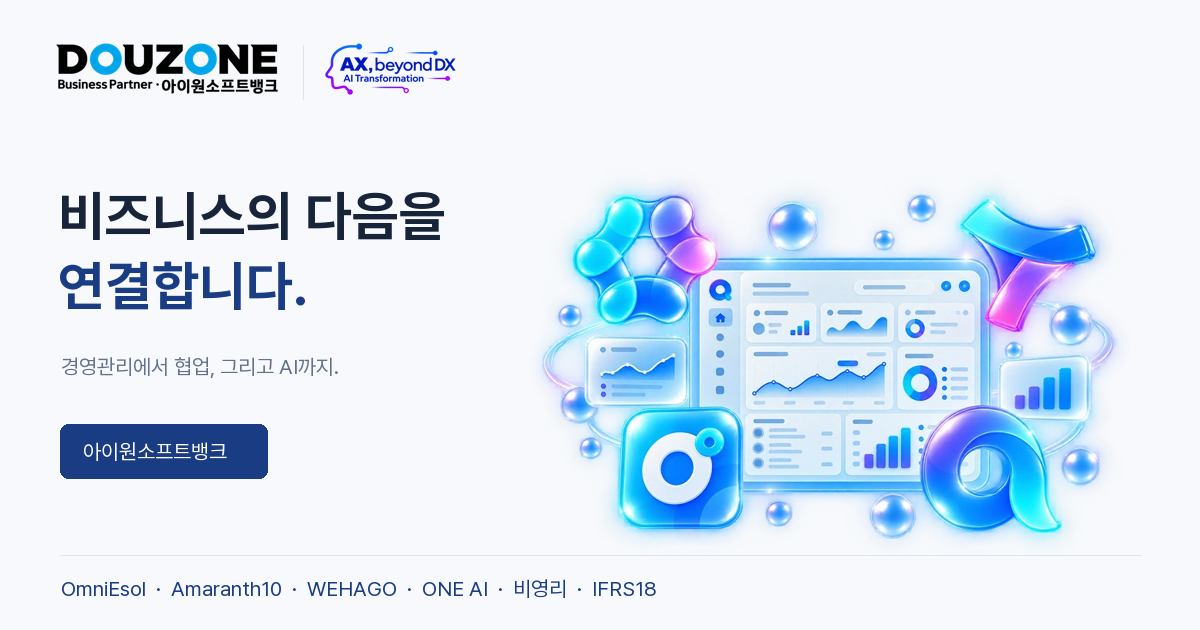
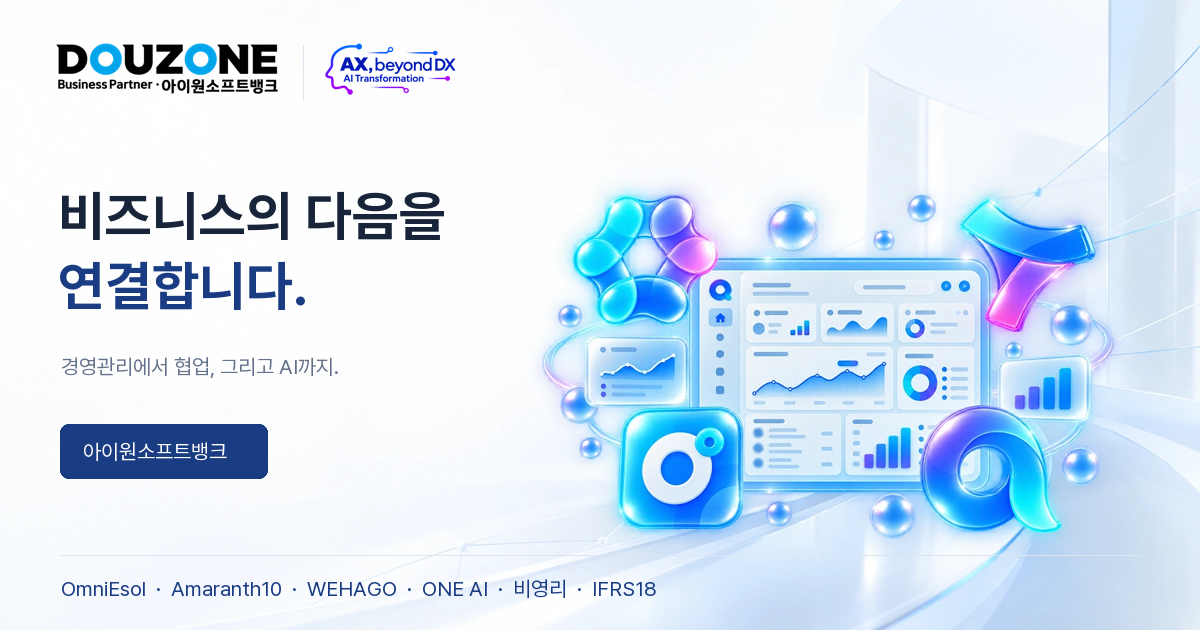
Add subtle technology backgrounds to product landing

Changed region(s): [[0.4625, 0.0, 1.0, 1.0]]

diff --git a/products/index.html b/products/index.html
@@ -1,5 +1,5 @@
 <!doctype html>
-<html lang="ko"><head><meta charset="utf-8"><meta name="viewport" content="width=device-width,initial-scale=1"><title>아이원소프트뱅크 | 비즈니스의 다음을 연결하다</title><meta name="description" content="아이원소프트뱅크의 더존 비즈니스 솔루션. OmniEsol, Amaranth10, WEHAGO, ONE AI, 비영리·IFRS18까지 실제 제품 화면과 함께 살펴보세요."><meta name="theme-color" content="#1A3C83"><link rel="canonical" href="https://crm-sand-five.vercel.app/products/"><link rel="icon" href="assets/favicon.svg" type="image/svg+xml"><link rel="icon" href="assets/favicon-32.png" sizes="32x32" type="image/png"><link rel="apple-touch-icon" href="assets/apple-touch-icon.png"><link rel="preload" href="../assets/fonts/PretendardVariable.woff2" as="font" type="font/woff2" crossorigin><link rel="preload" href="assets/hero-visual.webp" as="image"><link rel="stylesheet" href="landing.css?v=1.0"><meta property="og:locale" content="ko_KR"><meta property="og:site_name" content="아이원소프트뱅크"><meta property="og:type" content="website"><meta property="og:title" content="아이원소프트뱅크 | 비즈니스의 다음을 연결하다"><meta property="og:description" content="경영관리에서 AI까지. 우리 회사에 맞는 6가지 더존 솔루션을 만나보세요."><meta property="og:image" content="https://crm-sand-five.vercel.app/products/assets/og-landing.png"><meta property="og:image:width" content="1200"><meta property="og:image:height" content="630"><meta property="og:url" content="https://crm-sand-five.vercel.app/products/"><meta property="og:image:alt" content="아이원소프트뱅크의 경영관리·협업·AI 솔루션"><meta name="twitter:title" content="아이원소프트뱅크 | 비즈니스의 다음을 연결하다"><meta name="twitter:image" content="https://crm-sand-five.vercel.app/products/assets/og-landing.png"><meta name="twitter:card" content="summary_large_image"><script src="vendor/gsap.min.js" defer></script><script src="vendor/ScrollTrigger.min.js" defer></script><script src="landing.js?v=1.0" defer></script></head>
+<html lang="ko"><head><meta charset="utf-8"><meta name="viewport" content="width=device-width,initial-scale=1"><title>아이원소프트뱅크 | 비즈니스의 다음을 연결하다</title><meta name="description" content="아이원소프트뱅크의 더존 비즈니스 솔루션. OmniEsol, Amaranth10, WEHAGO, ONE AI, 비영리·IFRS18까지 실제 제품 화면과 함께 살펴보세요."><meta name="theme-color" content="#1A3C83"><link rel="canonical" href="https://crm-sand-five.vercel.app/products/"><link rel="icon" href="assets/favicon.svg" type="image/svg+xml"><link rel="icon" href="assets/favicon-32.png" sizes="32x32" type="image/png"><link rel="apple-touch-icon" href="assets/apple-touch-icon.png"><link rel="preload" href="../assets/fonts/PretendardVariable.woff2" as="font" type="font/woff2" crossorigin><link rel="preload" href="assets/hero-visual.webp" as="image"><link rel="preload" href="assets/hero-tech-background.webp" as="image"><link rel="stylesheet" href="landing.css?v=1.0"><link rel="stylesheet" href="backgrounds.css?v=1.1"><meta property="og:locale" content="ko_KR"><meta property="og:site_name" content="아이원소프트뱅크"><meta property="og:type" content="website"><meta property="og:title" content="아이원소프트뱅크 | 비즈니스의 다음을 연결하다"><meta property="og:description" content="경영관리에서 AI까지. 우리 회사에 맞는 6가지 더존 솔루션을 만나보세요."><meta property="og:image" content="https://crm-sand-five.vercel.app/products/assets/og-landing.png?v=1.1"><meta property="og:image:width" content="1200"><meta property="og:image:height" content="630"><meta property="og:url" content="https://crm-sand-five.vercel.app/products/"><meta property="og:image:alt" content="아이원소프트뱅크의 경영관리·협업·AI 솔루션"><meta name="twitter:title" content="아이원소프트뱅크 | 비즈니스의 다음을 연결하다"><meta name="twitter:image" content="https://crm-sand-five.vercel.app/products/assets/og-landing.png?v=1.1"><meta name="twitter:card" content="summary_large_image"><script src="vendor/gsap.min.js" defer></script><script src="vendor/ScrollTrigger.min.js" defer></script><script src="landing.js?v=1.0" defer></script></head>
 <body><a class="skip-link" href="#solutions">제품 소개로 바로가기</a>
 <header class="site-header"><div class="header-inner wrap"><a class="brand" href="#top" aria-label="아이원소프트뱅크 홈"><img class="company-logo" src="assets/company-logo.webp" alt="DOUZONE Business Partner 아이원소프트뱅크" width="195" height="48"><span class="brand-divider" aria-hidden="true"></span><img class="ax-logo" src="assets/ax-dx-logo.webp" alt="AX, beyond DX · AI Transformation" width="117" height="52"></a><nav class="header-nav" aria-label="주 메뉴"><a href="#company">회사 소개</a><a href="#solutions">솔루션</a><a href="#process">도입 안내</a></nav><a class="button primary header-contact" href="#contact">도입 상담 <svg viewBox="0 0 24 24" aria-hidden="true"><path d="M5 12h14M13 6l6 6-6 6"/></svg></a><button class="menu-toggle" aria-controls="mobile-menu" aria-expanded="false" aria-label="메뉴 열기"><svg viewBox="0 0 24 24" aria-hidden="true"><path d="M4 7h16M4 12h16M4 17h16"/></svg></button></div><nav id="mobile-menu" aria-label="모바일 메뉴" hidden><a href="#company">회사 소개</a><a href="#solutions">솔루션</a><a href="#process">도입 안내</a><a href="#contact">도입 상담</a></nav></header>
 <main id="top"><section class="hero"><div class="hero-inner wrap"><div class="hero-copy"><span class="eyebrow"><span class="live-dot"></span> YOUR BUSINESS, CONNECTED.</span><h1>비즈니스의 다음을<br><span>연결합니다.</span></h1><p>경영관리에서 협업, 그리고 AI까지.<br>아이원소프트뱅크와 함께 우리 회사에 맞는<br class="mobile-break"> 업무의 가능성을 넓혀보세요.</p><div class="hero-actions"><a class="button primary" href="#solutions">솔루션 살펴보기 <svg viewBox="0 0 24 24" aria-hidden="true"><path d="M5 12h14M13 6l6 6-6 6"/></svg></a><a class="button secondary" href="#company">아이원 소개 <svg viewBox="0 0 24 24" aria-hidden="true"><path d="M5 12h14M13 6l6 6-6 6"/></svg></a></div><div class="hero-signature"><span>DOUZONE BUSINESS PARTNER</span><strong>아이원소프트뱅크</strong></div></div><div class="hero-art"><div class="hero-halo" aria-hidden="true"></div><img class="hero-main-visual" src="assets/hero-visual.webp" alt="기업 경영 대시보드와 OmniEsol·Amaranth10·WEHAGO·ONE AI의 3D 비주얼" width="779" height="512" fetchpriority="high"><span class="hero-coordinate" aria-hidden="true">ERP / CLOUD / AI</span></div></div><div class="hero-bottom wrap"><span>더존의 기술, 아이원의 경험.<br>우리 회사의 변화가 시작되는 곳.</span><a href="#solutions" class="scroll-cue">SCROLL TO EXPLORE <span>↓</span></a></div></section>

diff --git a/products/backgrounds.css b/products/backgrounds.css
@@ -1,0 +1,45 @@
+/* Decorative raster backgrounds remain behind all copy, controls and product art. */
+.hero{
+  background-color:#f8faff;
+  background-image:linear-gradient(90deg,#f8faff55 0%,#f8faff12 48%,transparent 72%),url('assets/hero-tech-background.webp');
+  background-position:center;
+  background-size:cover;
+  background-repeat:no-repeat;
+}
+.hero-halo{opacity:.48}
+.product-stage::before{
+  content:'';
+  position:absolute;
+  inset:0;
+  z-index:-2;
+  pointer-events:none;
+  background-image:linear-gradient(90deg,#102e6873 0%,#102e681f 62%,transparent),url('assets/product-tech-pattern.webp');
+  background-position:var(--tech-position,center);
+  background-size:cover;
+  background-repeat:no-repeat;
+  opacity:.64;
+}
+.product-panel[data-id='omniesol']{--tech-position:62% 45%}
+.product-panel[data-id='amaranth10']{--tech-position:70% 54%}
+.product-panel[data-id='wehago']{--tech-position:60% 62%}
+.product-panel[data-id='oneai']{--tech-position:75% 38%}
+.product-panel[data-id='nonprofit']{--tech-position:65% 52%}
+.product-panel[data-id='ifrs18']{--tech-position:72% 60%}
+.contact-section{position:relative;isolation:isolate;overflow:hidden}
+.contact-section::before{
+  content:'';
+  position:absolute;
+  inset:0;
+  z-index:-1;
+  pointer-events:none;
+  background:linear-gradient(90deg,#1a3c8380,transparent),url('assets/product-tech-pattern.webp') center 64%/cover no-repeat;
+  opacity:.36;
+}
+@media(max-width:860px){
+  .hero{
+    background-image:linear-gradient(180deg,#f8faffce 0%,#f8faffb3 35%,#f8faff24 74%,#f8faff60 100%),url('assets/hero-tech-background.webp');
+    background-position:68% center;
+  }
+  .product-stage::before{background-position:72% center;opacity:.50}
+  .contact-section::before{background-position:68% center;opacity:.28}
+}

diff --git a/scripts/build-product-landing.py b/scripts/build-product-landing.py
@@ -37,7 +37,7 @@ for i,p in enumerate(products):
     </section>''')
 
 html = f'''<!doctype html>
-<html lang="ko"><head><meta charset="utf-8"><meta name="viewport" content="width=device-width,initial-scale=1"><title>아이원소프트뱅크 | 비즈니스의 다음을 연결하다</title><meta name="description" content="아이원소프트뱅크의 더존 비즈니스 솔루션. OmniEsol, Amaranth10, WEHAGO, ONE AI, 비영리·IFRS18까지 실제 제품 화면과 함께 살펴보세요."><meta name="theme-color" content="#1A3C83"><link rel="canonical" href="https://crm-sand-five.vercel.app/products/"><link rel="icon" href="assets/favicon.svg" type="image/svg+xml"><link rel="icon" href="assets/favicon-32.png" sizes="32x32" type="image/png"><link rel="apple-touch-icon" href="assets/apple-touch-icon.png"><link rel="preload" href="../assets/fonts/PretendardVariable.woff2" as="font" type="font/woff2" crossorigin><link rel="preload" href="assets/hero-visual.webp" as="image"><link rel="stylesheet" href="landing.css?v=1.0"><meta property="og:locale" content="ko_KR"><meta property="og:site_name" content="아이원소프트뱅크"><meta property="og:type" content="website"><meta property="og:title" content="아이원소프트뱅크 | 비즈니스의 다음을 연결하다"><meta property="og:description" content="경영관리에서 AI까지. 우리 회사에 맞는 6가지 더존 솔루션을 만나보세요."><meta property="og:image" content="https://crm-sand-five.vercel.app/products/assets/og-landing.png"><meta property="og:image:width" content="1200"><meta property="og:image:height" content="630"><meta property="og:url" content="https://crm-sand-five.vercel.app/products/"><meta property="og:image:alt" content="아이원소프트뱅크의 경영관리·협업·AI 솔루션"><meta name="twitter:title" content="아이원소프트뱅크 | 비즈니스의 다음을 연결하다"><meta name="twitter:image" content="https://crm-sand-five.vercel.app/products/assets/og-landing.png"><meta name="twitter:card" content="summary_large_image"><script src="vendor/gsap.min.js" defer></script><script src="vendor/ScrollTrigger.min.js" defer></script><script src="landing.js?v=1.0" defer></script></head>
+<html lang="ko"><head><meta charset="utf-8"><meta name="viewport" content="width=device-width,initial-scale=1"><title>아이원소프트뱅크 | 비즈니스의 다음을 연결하다</title><meta name="description" content="아이원소프트뱅크의 더존 비즈니스 솔루션. OmniEsol, Amaranth10, WEHAGO, ONE AI, 비영리·IFRS18까지 실제 제품 화면과 함께 살펴보세요."><meta name="theme-color" content="#1A3C83"><link rel="canonical" href="https://crm-sand-five.vercel.app/products/"><link rel="icon" href="assets/favicon.svg" type="image/svg+xml"><link rel="icon" href="assets/favicon-32.png" sizes="32x32" type="image/png"><link rel="apple-touch-icon" href="assets/apple-touch-icon.png"><link rel="preload" href="../assets/fonts/PretendardVariable.woff2" as="font" type="font/woff2" crossorigin><link rel="preload" href="assets/hero-visual.webp" as="image"><link rel="preload" href="assets/hero-tech-background.webp" as="image"><link rel="stylesheet" href="landing.css?v=1.0"><link rel="stylesheet" href="backgrounds.css?v=1.1"><meta property="og:locale" content="ko_KR"><meta property="og:site_name" content="아이원소프트뱅크"><meta property="og:type" content="website"><meta property="og:title" content="아이원소프트뱅크 | 비즈니스의 다음을 연결하다"><meta property="og:description" content="경영관리에서 AI까지. 우리 회사에 맞는 6가지 더존 솔루션을 만나보세요."><meta property="og:image" content="https://crm-sand-five.vercel.app/products/assets/og-landing.png?v=1.1"><meta property="og:image:width" content="1200"><meta property="og:image:height" content="630"><meta property="og:url" content="https://crm-sand-five.vercel.app/products/"><meta property="og:image:alt" content="아이원소프트뱅크의 경영관리·협업·AI 솔루션"><meta name="twitter:title" content="아이원소프트뱅크 | 비즈니스의 다음을 연결하다"><meta name="twitter:image" content="https://crm-sand-five.vercel.app/products/assets/og-landing.png?v=1.1"><meta name="twitter:card" content="summary_large_image"><script src="vendor/gsap.min.js" defer></script><script src="vendor/ScrollTrigger.min.js" defer></script><script src="landing.js?v=1.0" defer></script></head>
 <body><a class="skip-link" href="#solutions">제품 소개로 바로가기</a>
 <header class="site-header"><div class="header-inner wrap"><a class="brand" href="#top" aria-label="아이원소프트뱅크 홈"><img class="company-logo" src="assets/company-logo.webp" alt="DOUZONE Business Partner 아이원소프트뱅크" width="195" height="48"><span class="brand-divider" aria-hidden="true"></span><img class="ax-logo" src="assets/ax-dx-logo.webp" alt="AX, beyond DX · AI Transformation" width="117" height="52"></a><nav class="header-nav" aria-label="주 메뉴"><a href="#company">회사 소개</a><a href="#solutions">솔루션</a><a href="#process">도입 안내</a></nav><a class="button primary header-contact" href="#contact">도입 상담 {arrow}</a><button class="menu-toggle" aria-controls="mobile-menu" aria-expanded="false" aria-label="메뉴 열기"><svg viewBox="0 0 24 24" aria-hidden="true"><path d="M4 7h16M4 12h16M4 17h16"/></svg></button></div><nav id="mobile-menu" aria-label="모바일 메뉴" hidden><a href="#company">회사 소개</a><a href="#solutions">솔루션</a><a href="#process">도입 안내</a><a href="#contact">도입 상담</a></nav></header>
 <main id="top"><section class="hero"><div class="hero-inner wrap"><div class="hero-copy"><span class="eyebrow"><span class="live-dot"></span> YOUR BUSINESS, CONNECTED.</span><h1>비즈니스의 다음을<br><span>연결합니다.</span></h1><p>경영관리에서 협업, 그리고 AI까지.<br>아이원소프트뱅크와 함께 우리 회사에 맞는<br class="mobile-break"> 업무의 가능성을 넓혀보세요.</p><div class="hero-actions"><a class="button primary" href="#solutions">솔루션 살펴보기 {arrow}</a><a class="button secondary" href="#company">아이원 소개 {arrow}</a></div><div class="hero-signature"><span>DOUZONE BUSINESS PARTNER</span><strong>아이원소프트뱅크</strong></div></div><div class="hero-art"><div class="hero-halo" aria-hidden="true"></div><img class="hero-main-visual" src="assets/hero-visual.webp" alt="기업 경영 대시보드와 OmniEsol·Amaranth10·WEHAGO·ONE AI의 3D 비주얼" width="779" height="512" fetchpriority="high"><span class="hero-coordinate" aria-hidden="true">ERP / CLOUD / AI</span></div></div><div class="hero-bottom wrap"><span>더존의 기술, 아이원의 경험.<br>우리 회사의 변화가 시작되는 곳.</span><a href="#solutions" class="scroll-cue">SCROLL TO EXPLORE <span>↓</span></a></div></section>

diff --git a/scripts/build-product-og.py b/scripts/build-product-og.py
@@ -1,10 +1,10 @@
 """Compose the landing social preview from supplied brand assets."""
 from pathlib import Path
-from PIL import Image, ImageDraw, ImageFont
+from PIL import Image, ImageDraw, ImageFont, ImageOps
 
 ROOT = Path(__file__).resolve().parents[1]
 assets = ROOT / 'products/assets'
-canvas = Image.new('RGB', (1200, 630), '#f7f9fc')
+canvas = ImageOps.fit(Image.open(assets / 'hero-tech-background.webp').convert('RGB'), (1200, 630), method=Image.Resampling.LANCZOS)
 draw = ImageDraw.Draw(canvas)
 fonts = ROOT / 'output/pdf/fonts'
 bold = ImageFont.truetype(str(fonts / 'Pretendard-Bold.ttf'), 54)

diff --git a/products/assets/BACKGROUND-PROMPTS.md b/products/assets/BACKGROUND-PROMPTS.md
@@ -1,0 +1,21 @@
+# 배경 이미지 제작 기록
+
+2026-10-12, 기본 내장 Imagegen 도구로 신규 이미지 2개 생성. 기존 제품 에셋이나 실제 UI는 수정하지 않았습니다. 생성된 PNG 원본을 프로젝트에 복사하고, 웹에서는 같은 이미지의 WebP 변환본을 사용합니다.
+
+## 저장 파일
+
+- 메인 배경: `products/assets/hero-tech-background.png`, `products/assets/hero-tech-background.webp` (1672×941)
+- 제품·상담 섹션 패턴: `products/assets/product-tech-pattern.png`, `products/assets/product-tech-pattern.webp` (1672×941)
+- 적용 스타일: `products/backgrounds.css`
+
+## 메인 배경 최종 프롬프트
+
+Use case: stylized-concept. Asset type: a wide landscape background image for a polished Korean enterprise software company landing-page hero, approx 16:9. Primary request: a very light sophisticated technology background that will sit BEHIND an existing large colorful glass 3D product artwork on the right and dark navy Korean headline on the left. Create a near-white icy pearl background, quiet layered frosted-glass ribbons and delicate translucent architectural curves, subtle blue light trails with very fine interconnected data points, a restrained sense of depth. Brand palette navy #1A3C83 and blue #1462FD, almost-white pale blue. Composition: the entire left half and upper center must remain nearly plain white negative space for readable copy; concentrate faint abstract depth toward the right perimeter and bottom right, leave room for a separate foreground product asset. Soft studio light, sparse, high-end B2B technology, calm and clean. Wide full-bleed artwork, no frames. No text, no logos, no letters, no product symbols, no mock UI, no dashboards, no fake screenshots, no large foreground object, no dark background, no neon clutter, no dense grids. All elements subtle and low contrast; overall image should remain predominantly white.
+
+## 제품 섹션 패턴 최종 프롬프트
+
+Use case: stylized-concept. Asset type: wide landscape subtle technology texture background for navy enterprise-software product sections. Create a restrained elegant abstract digital-network and microcircuit pattern on a deep navy #102e68 to #1A3C83 background. Fine architectural circuit paths, sparse connecting points, faint layered perspective grids, very delicate translucent data waves, quiet depth. Lines must be thin, low contrast, desaturated cool blue (#5678af), mostly around the perimeter and right side. The left third and central band must remain calm and darker to keep white product copy and colorful foreground 3D logos readable. Premium B2B enterprise tone, calm, professional, editorial sophistication. Pattern detail should be discernible at low opacity, not prominent. Continuous full-bleed 16:9 backdrop. No text, logos, symbols, dashboards, UI, people, recognizable chips, large hexagon decorations, strong lens flares or saturated neon. No border, no frame, no vignette-black corners. This is only a supporting background texture.
+
+## 적용
+
+메인은 기존 3D 에셋을 전경으로 두고 밝은 배경을 전체에 배치했습니다. 6개 제품 소개 섹션은 공통 패턴의 위치를 조금씩 조정해 시각적 통일감을 유지합니다. PC 제품 섹션의 패턴 불투명도는 64%, 모바일은 50%이며, 하단 상담은 더 낮은 36%/28%를 적용했습니다. 이미지 자체의 밝기와 별도의 그라데이션도 함께 작용하므로 이 값은 화면의 최종 대비를 뜻하지 않습니다.

diff --git a/products/SOURCES.md b/products/SOURCES.md
@@ -42,6 +42,8 @@ WEHAGO 모바일 이미지는 실제 제품 UI가 포함된 공식 소개용 합
 
 ## 선명도
 
+장식용 메인·제품 배경 2개는 2026-10-12 기본 Imagegen으로 신규 제작했습니다. 실제 UI 자료와 분리해 사용하며 [배경 파일·최종 프롬프트 기록](assets/BACKGROUND-PROMPTS.md)을 제공합니다.
+
 기능 UI는 원본 픽셀과 무손실 PNG/WebP를 유지합니다. JPEG로 제공된 OmniEsol 이미지는 원본 파일을 그대로 보존합니다. 실제 화면을 AI로 재구성하거나 글자를 바꾸는 업스케일은 적용하지 않았습니다. 원본 크기가 작으면 강제로 확대하지 않으며, 데스크톱 갤러리와 확대 창 모두 원본 해상도를 넘는 표시를 제한합니다. 18개 화면의 실제 픽셀 크기는 `data.json`에 기록합니다.
 
 ## 라이브러리

diff --git a/products/VERIFICATION.md b/products/VERIFICATION.md
@@ -13,3 +13,7 @@
 - SVG/PNG 파비콘, Apple 터치 아이콘, 1200×630 OG 이미지 및 관련 메타데이터 확인.
 
 모션 줄이기는 OS 미디어 쿼리 분기와 코드 검토로 확인했습니다. 운영체제 설정을 변경한 브라우저 실증 테스트는 수행하지 않았습니다. 문의 버튼의 목적지를 확인했고 문의 폼을 제출하지 않았습니다.
+
+## 배경 추가 검수
+
+2026-10-12: 메인 3D 에셋 뒤의 밝은 기술 배경과 6개 제품 섹션의 네이비 패턴을 적용했습니다. 전체 제품 탭에서 배경 스타일 연결을 확인했고 PC·모바일에서 문서 가로 넘침과 텍스트 가독성을 확인했습니다. 하단 상담에도 같은 패턴을 낮은 불투명도로 적용했습니다. OG 이미지도 메인 배경과 맞춰 다시 생성했습니다.

diff --git a/products/README.md b/products/README.md
@@ -7,6 +7,7 @@
 - 빌드: `python scripts/build-product-landing.py` (표준 라이브러리만 사용)
 - 콘텐츠 수정: `products/data.json`
 - 스타일·동작: `landing.css`, `landing.js`
+- 장식 배경: `backgrounds.css`, `assets/hero-tech-background.webp`, `assets/product-tech-pattern.webp`
 - 프리뷰: 저장소 루트에서 `python -m http.server 8940` 실행 후 `/products/` 접속
 
 ## 구성
